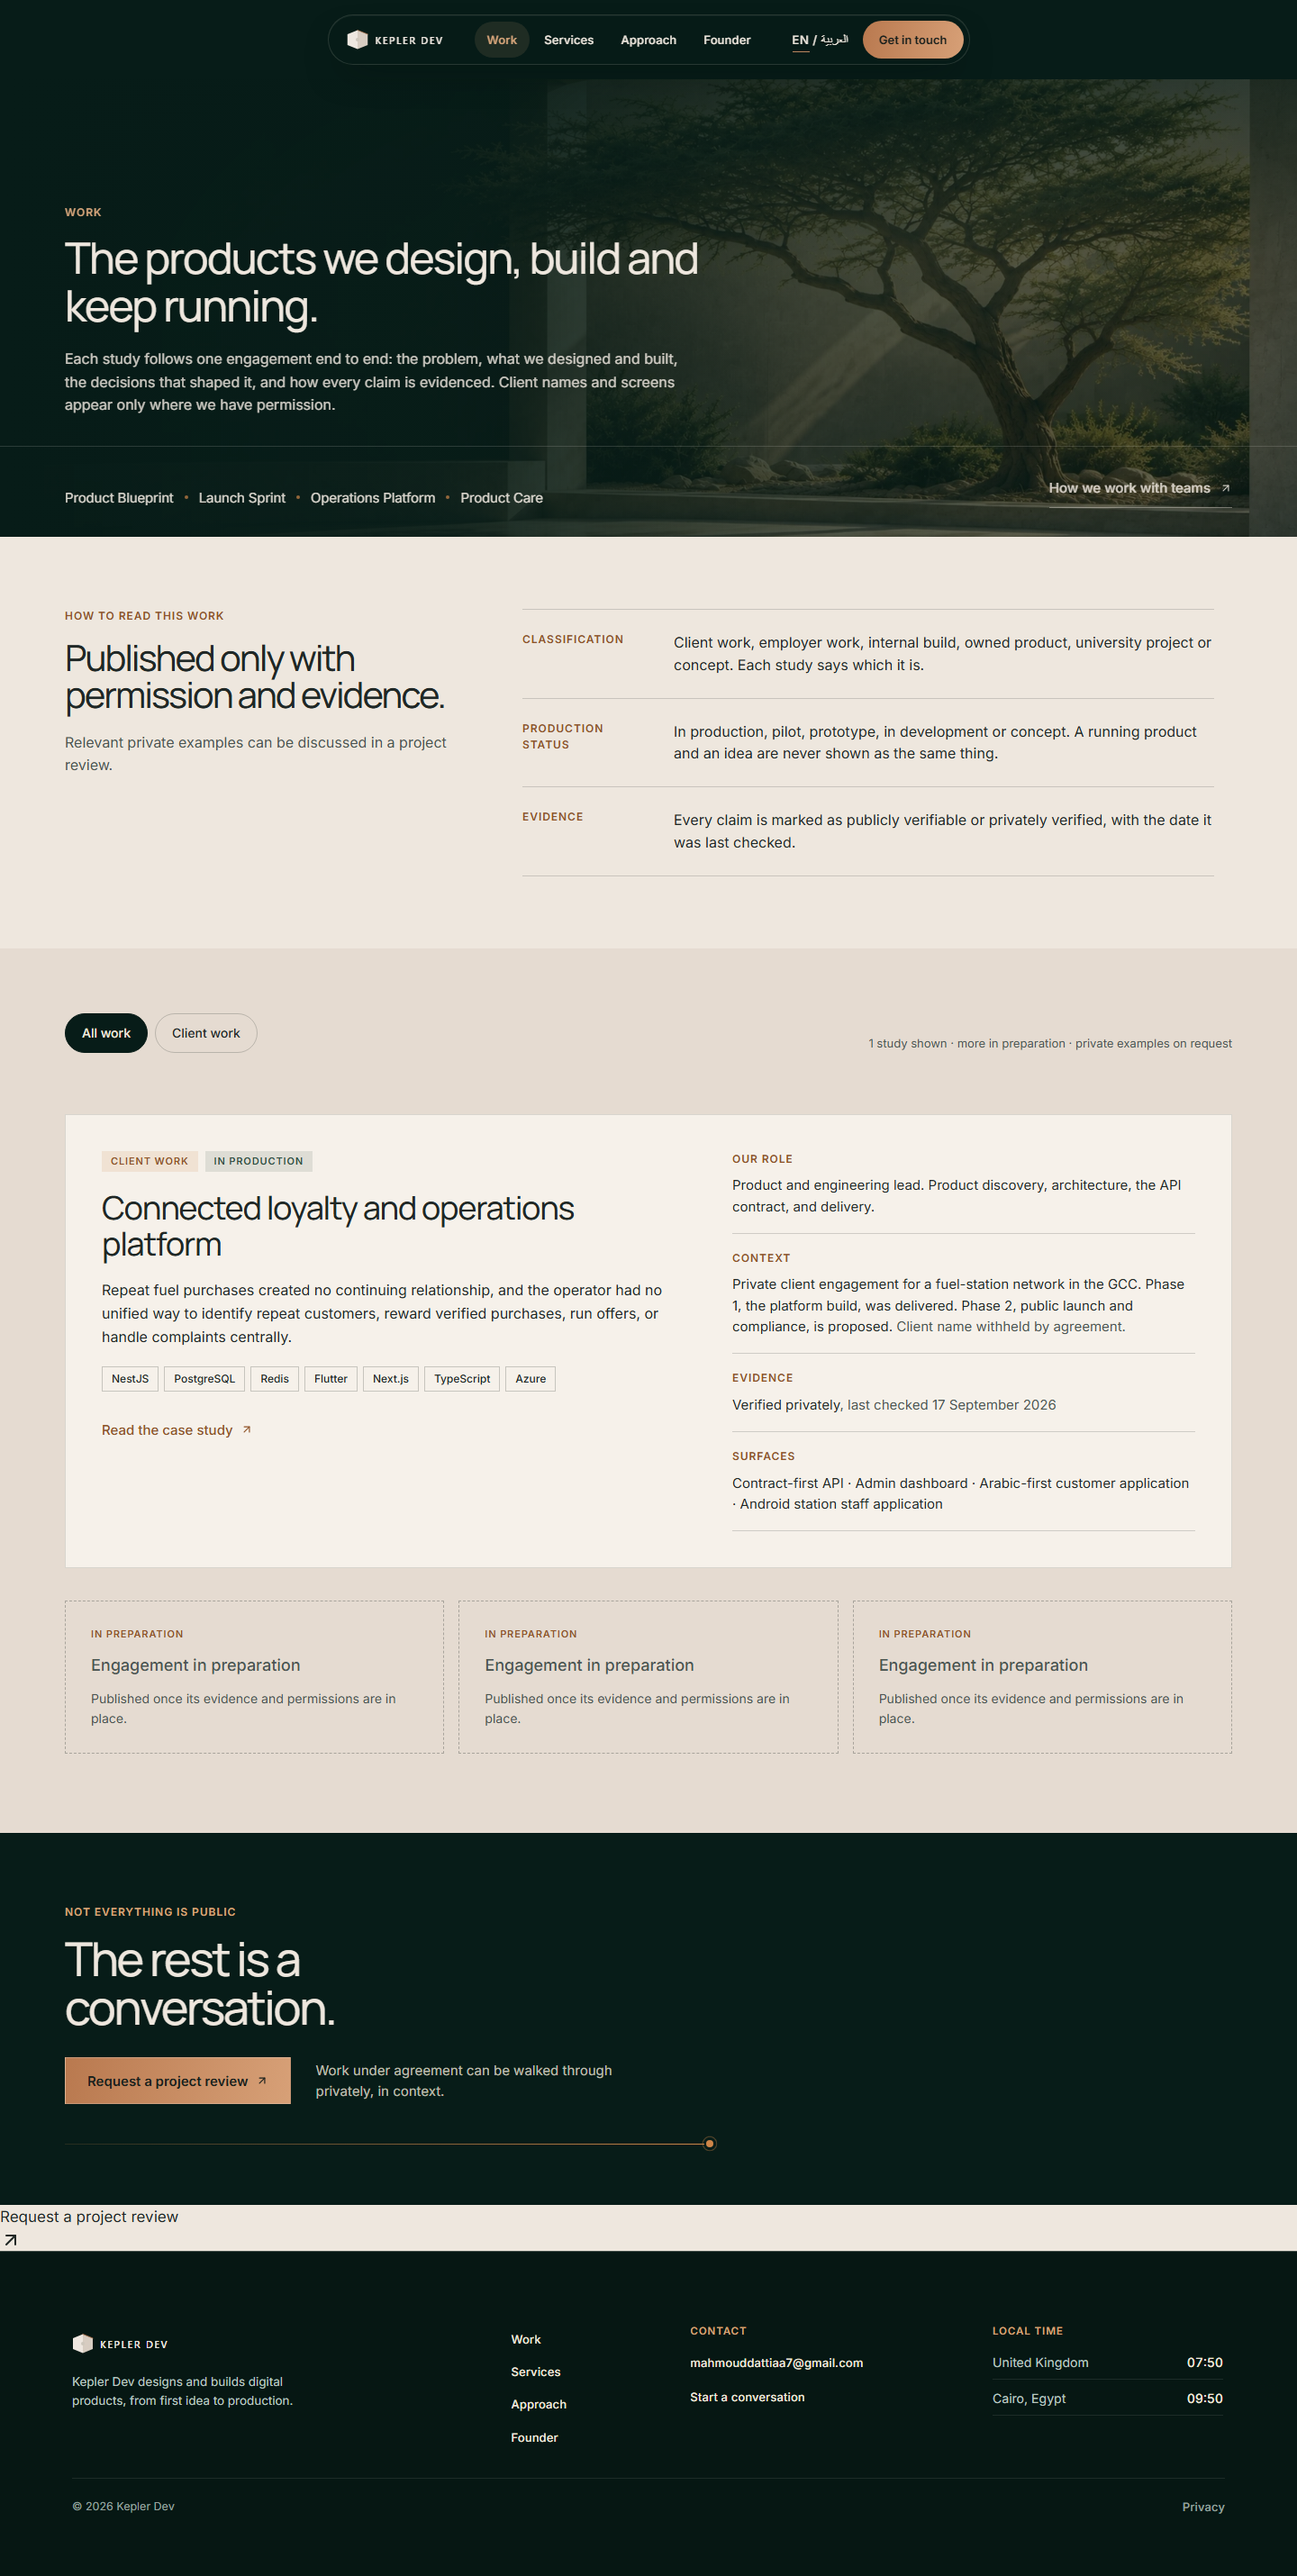
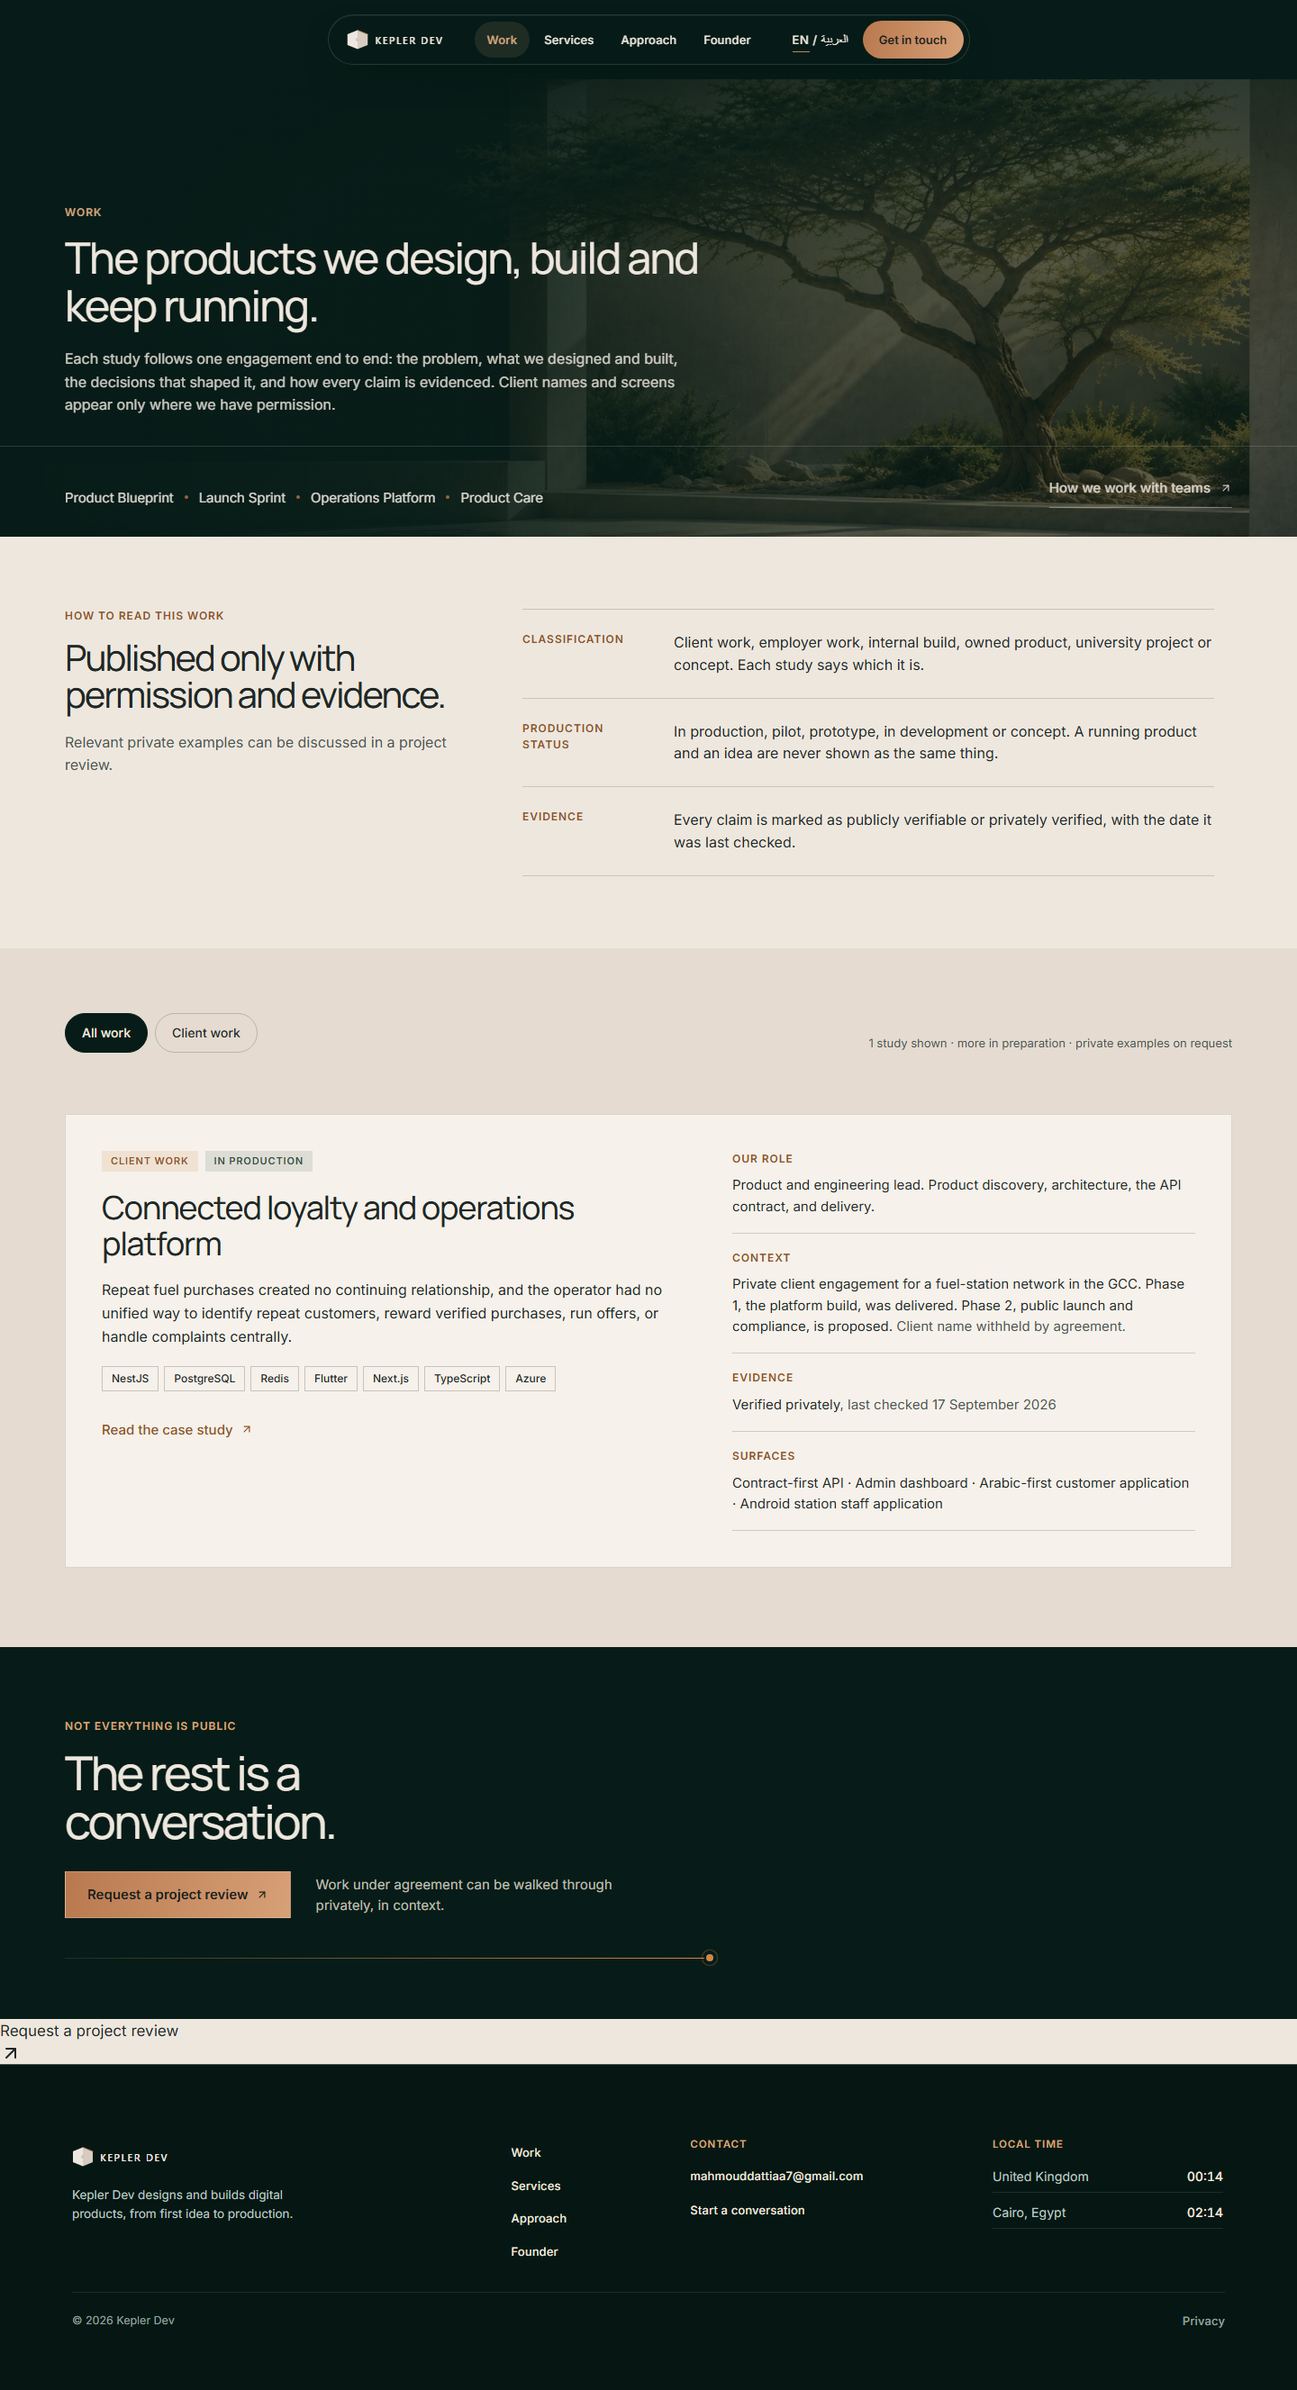
Keep the case study on the site's palette, drop the placeholder cards
The case study was the only page still reading the light/dark theme
tokens, so it repainted itself in the old charcoal-and-coral scheme
whenever the reader's system was dark, while every other page stayed
cream and forest. It now pins the same palette as the rest of the site
and looks identical under either preference.

The dashed "in preparation" cards did not explain themselves, and the
count line above them already says more studies are in preparation.

diff --git a/src/app/work-v2.css b/src/app/work-v2.css
@@ -589,43 +589,6 @@
 
 /* Placeholders -------------------------------------------------------- */
 
-.wv2-placeholders {
-  display: grid;
-  gap: 1rem;
-  grid-template-columns: 1fr;
-  list-style: none;
-}
-
-.wv2-placeholder {
-  display: flex;
-  flex-direction: column;
-  gap: 0.75rem;
-  align-items: flex-start;
-  padding: 1.75rem;
-  border: 1px dashed rgba(32, 40, 38, 0.3);
-  background: transparent;
-}
-
-.wv2-placeholder-label {
-  color: var(--wv2-copper-text);
-  font-size: 0.6875rem;
-  font-weight: 600;
-  letter-spacing: 0.08em;
-  text-transform: uppercase;
-}
-
-.wv2-placeholder-title {
-  color: var(--wv2-muted);
-  font-size: 1.125rem;
-  font-weight: 500;
-}
-
-.wv2-placeholder-body {
-  color: var(--wv2-muted);
-  font-size: 0.875rem;
-  line-height: 1.55;
-}
-
 /* Empty state --------------------------------------------------------- */
 
 .wv2-empty {
@@ -880,10 +843,6 @@
     block-size: 14.5rem;
   }
 
-  .wv2-placeholders {
-    grid-template-columns: repeat(2, minmax(0, 1fr));
-  }
-
   .wv2-closing-actions {
     flex-direction: row;
     align-items: center;
@@ -907,9 +866,6 @@
 }
 
 @media (min-width: 1280px) {
-  .wv2-placeholders {
-    grid-template-columns: repeat(3, minmax(0, 1fr));
-  }
 }
 
 @media (max-width: 767px) {
@@ -987,10 +943,6 @@
 
   .wv2-lead {
     padding: 1.5rem;
-  }
-
-  .wv2-placeholders {
-    grid-template-columns: 1fr;
   }
 
   .wv2-closing {

diff --git a/src/app/case-study.css b/src/app/case-study.css
@@ -4,11 +4,29 @@
    that ignores theme variables by design. */
 
 .cs-page {
+  /* The rest of the site paints a fixed palette (cream, sand, forest,
+     copper) and ignores the light/dark preference. This page read the
+     theme tokens instead, so it flipped to the old charcoal-and-coral
+     scheme whenever the reader's system was dark. Pin the same palette
+     here and the case study stops changing underneath people. */
+  --bg: #eee7de;
+  --surface: #f6f1ea;
+  --surface-alt: #e5dbd1;
+  --text: #202826;
+  --muted: #4b5551;
+  --line: rgba(32, 40, 38, 0.18);
+  --accent: #8f5327;
+  --accent-hover: #cf8649;
+  --on-accent: #eee7de;
+  --focus: #cf8649;
+  --atelier-bronze-deep: #8f5327;
+
   position: relative;
   isolation: isolate;
   overflow-x: clip;
   padding-block-end: clamp(3rem, 5vw, 5rem);
   color: var(--text);
+  background: var(--bg);
 }
 
 /* ---------- Grain overlay -------------------------------------------- */

diff --git a/src/content/work/en.ts b/src/content/work/en.ts
@@ -83,25 +83,6 @@ export const workEn: WorkCopy = {
       title: "No published studies match that filter.",
       body: "Try another classification, or request a project review.",
     },
-    placeholders: [
-      {
-        label: "In preparation",
-        title: "Engagement in preparation",
-        body: "Published once its evidence and permissions are in place.",
-      },
-      {
-        label: "In preparation",
-        title: "Engagement in preparation",
-        body: "Published once its evidence and permissions are in place.",
-      },
-      {
-        label: "In preparation",
-        title: "Engagement in preparation",
-        body: "Published once its evidence and permissions are in place.",
-      },
-    ],
-    placeholderFoot:
-      "Published once its evidence and permissions are in place.",
   },
 
   closing: {

diff --git a/src/components/work-grid.tsx b/src/components/work-grid.tsx
@@ -145,16 +145,6 @@ export function WorkGrid() {
               ))}
             </ul>
           ) : null}
-
-          <ul className="wv2-placeholders" aria-hidden="true">
-            {copy.studies.placeholders.map((placeholder, index) => (
-              <li key={index} className="wv2-placeholder">
-                <p className="wv2-placeholder-label">{placeholder.label}</p>
-                <p className="wv2-placeholder-title">{placeholder.title}</p>
-                <p className="wv2-placeholder-body">{placeholder.body}</p>
-              </li>
-            ))}
-          </ul>
         </>
       )}
     </div>

diff --git a/src/content/work/types.ts b/src/content/work/types.ts
@@ -89,13 +89,6 @@ export type WorkCopy = {
       title: string;
       body: string;
     };
-    /** In-preparation placeholders. */
-    placeholders: ReadonlyArray<{
-      label: string;
-      title: string;
-      body: string;
-    }>;
-    placeholderFoot: string;
   };
 
   closing: {
